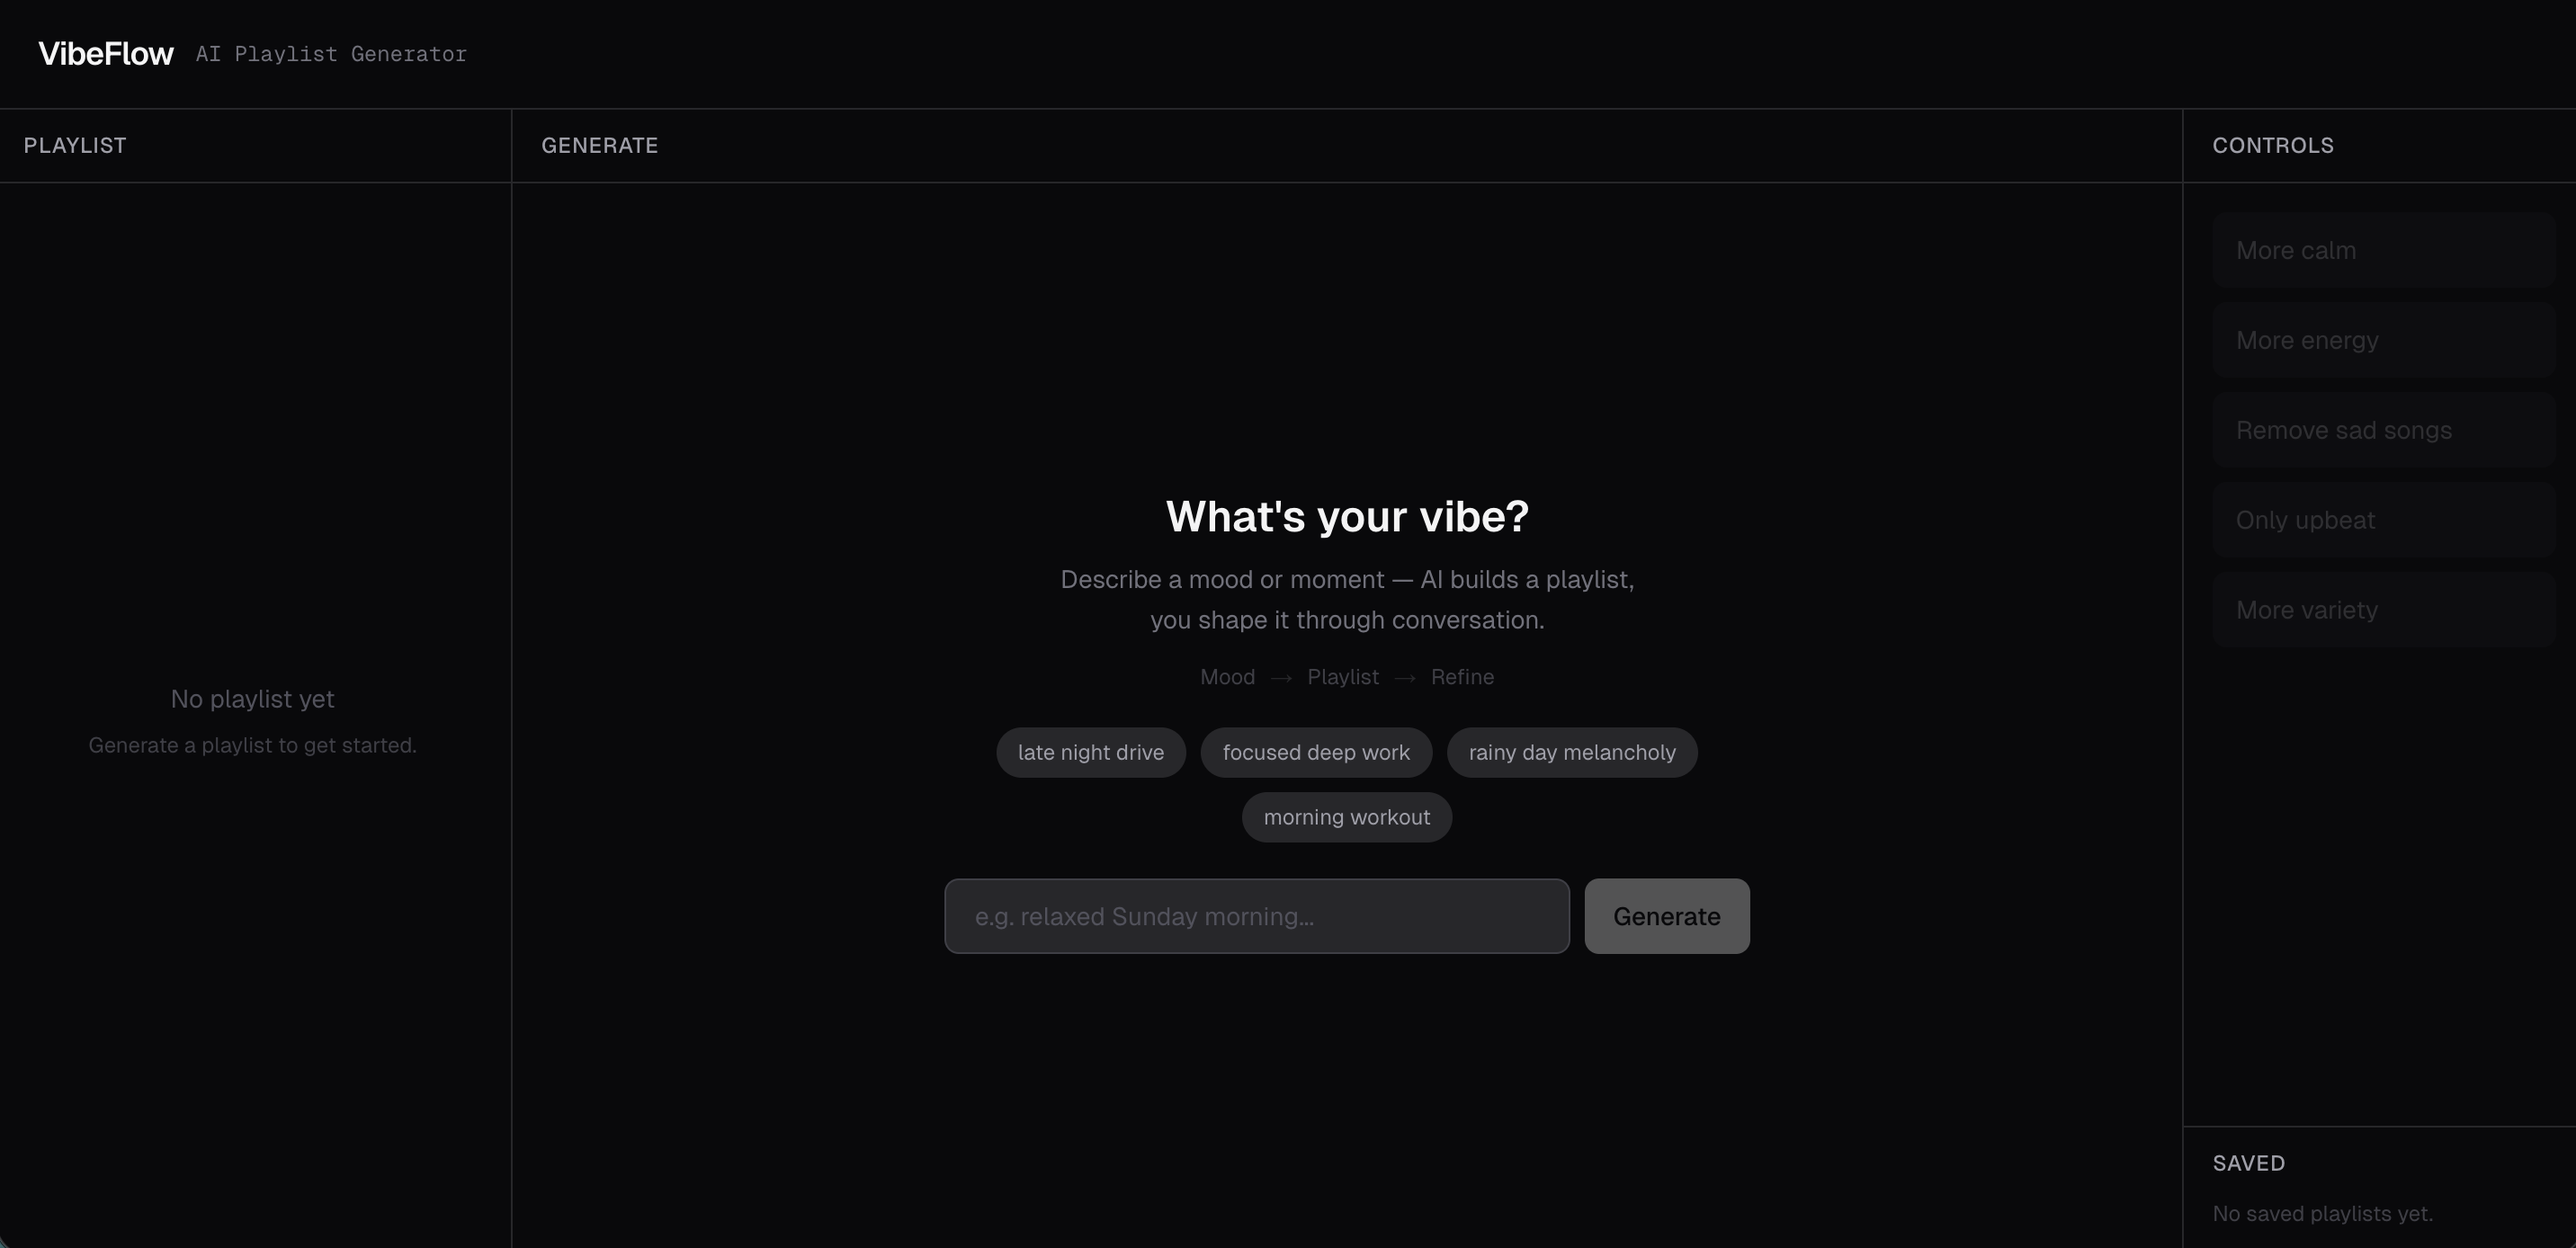
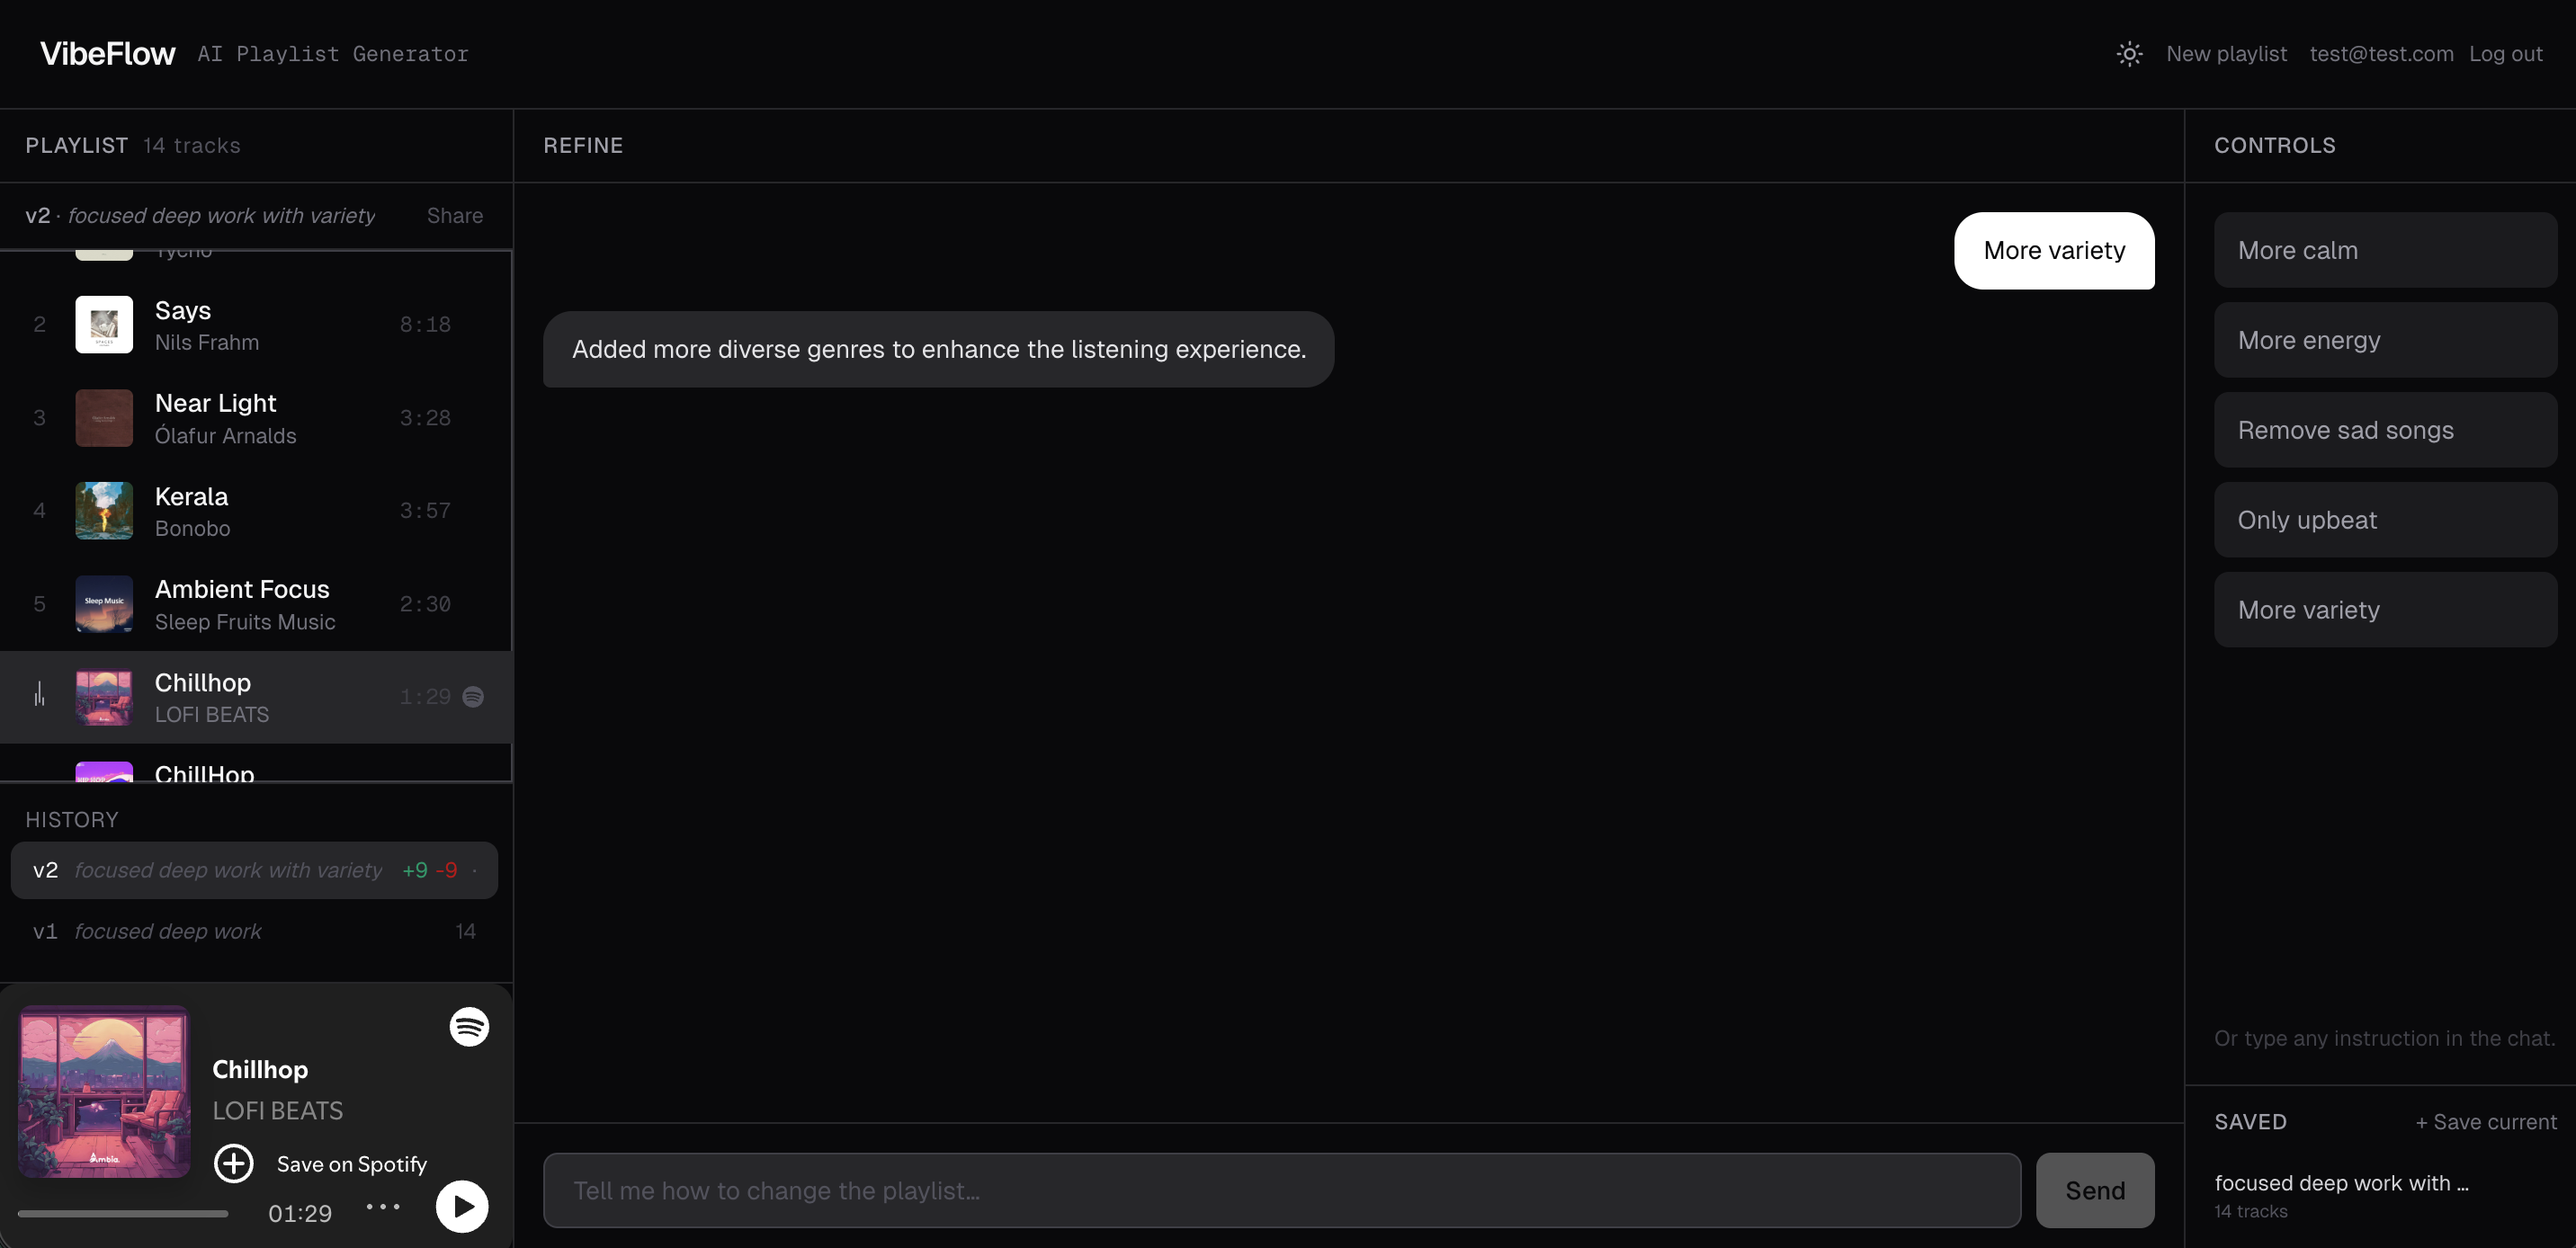
Update project info

diff --git a/index.html b/index.html
@@ -188,21 +188,22 @@
 
           <!-- Primary Projects -->
           <div class="projects-primary">
-            <!-- Project 1 VibeFLow -->
+            <!-- Project 1 VibeFlow -->
             <article class="project-row tilt-card reveal">
               <div class="project-img">
                 <img
                   src="assets/images/vibeflow.png"
-                  alt="VibeFLow"
+                  alt="VibeFlow"
                   loading="lazy"
                 />
               </div>
               <div class="project-info">
-                <h3 class="project-name">VibeFLow</h3>
+                <h3 class="project-name">VibeFlow</h3>
                 <p class="project-desc">
-                  Describe your mood, get a playlist — VibeFlow uses AI to turn
-                  how you're feeling into a curated Spotify playlist you can
-                  refine through conversation, save, and revisit.
+                  mood-driven playlist generator that turns a feeling into a
+                  real Spotify tracklist — then lets you shape it through
+                  conversation, revert any change, and share a version with a
+                  single link.
                 </p>
                 <ul class="project-tech">
                   <li>Next.js</li>
